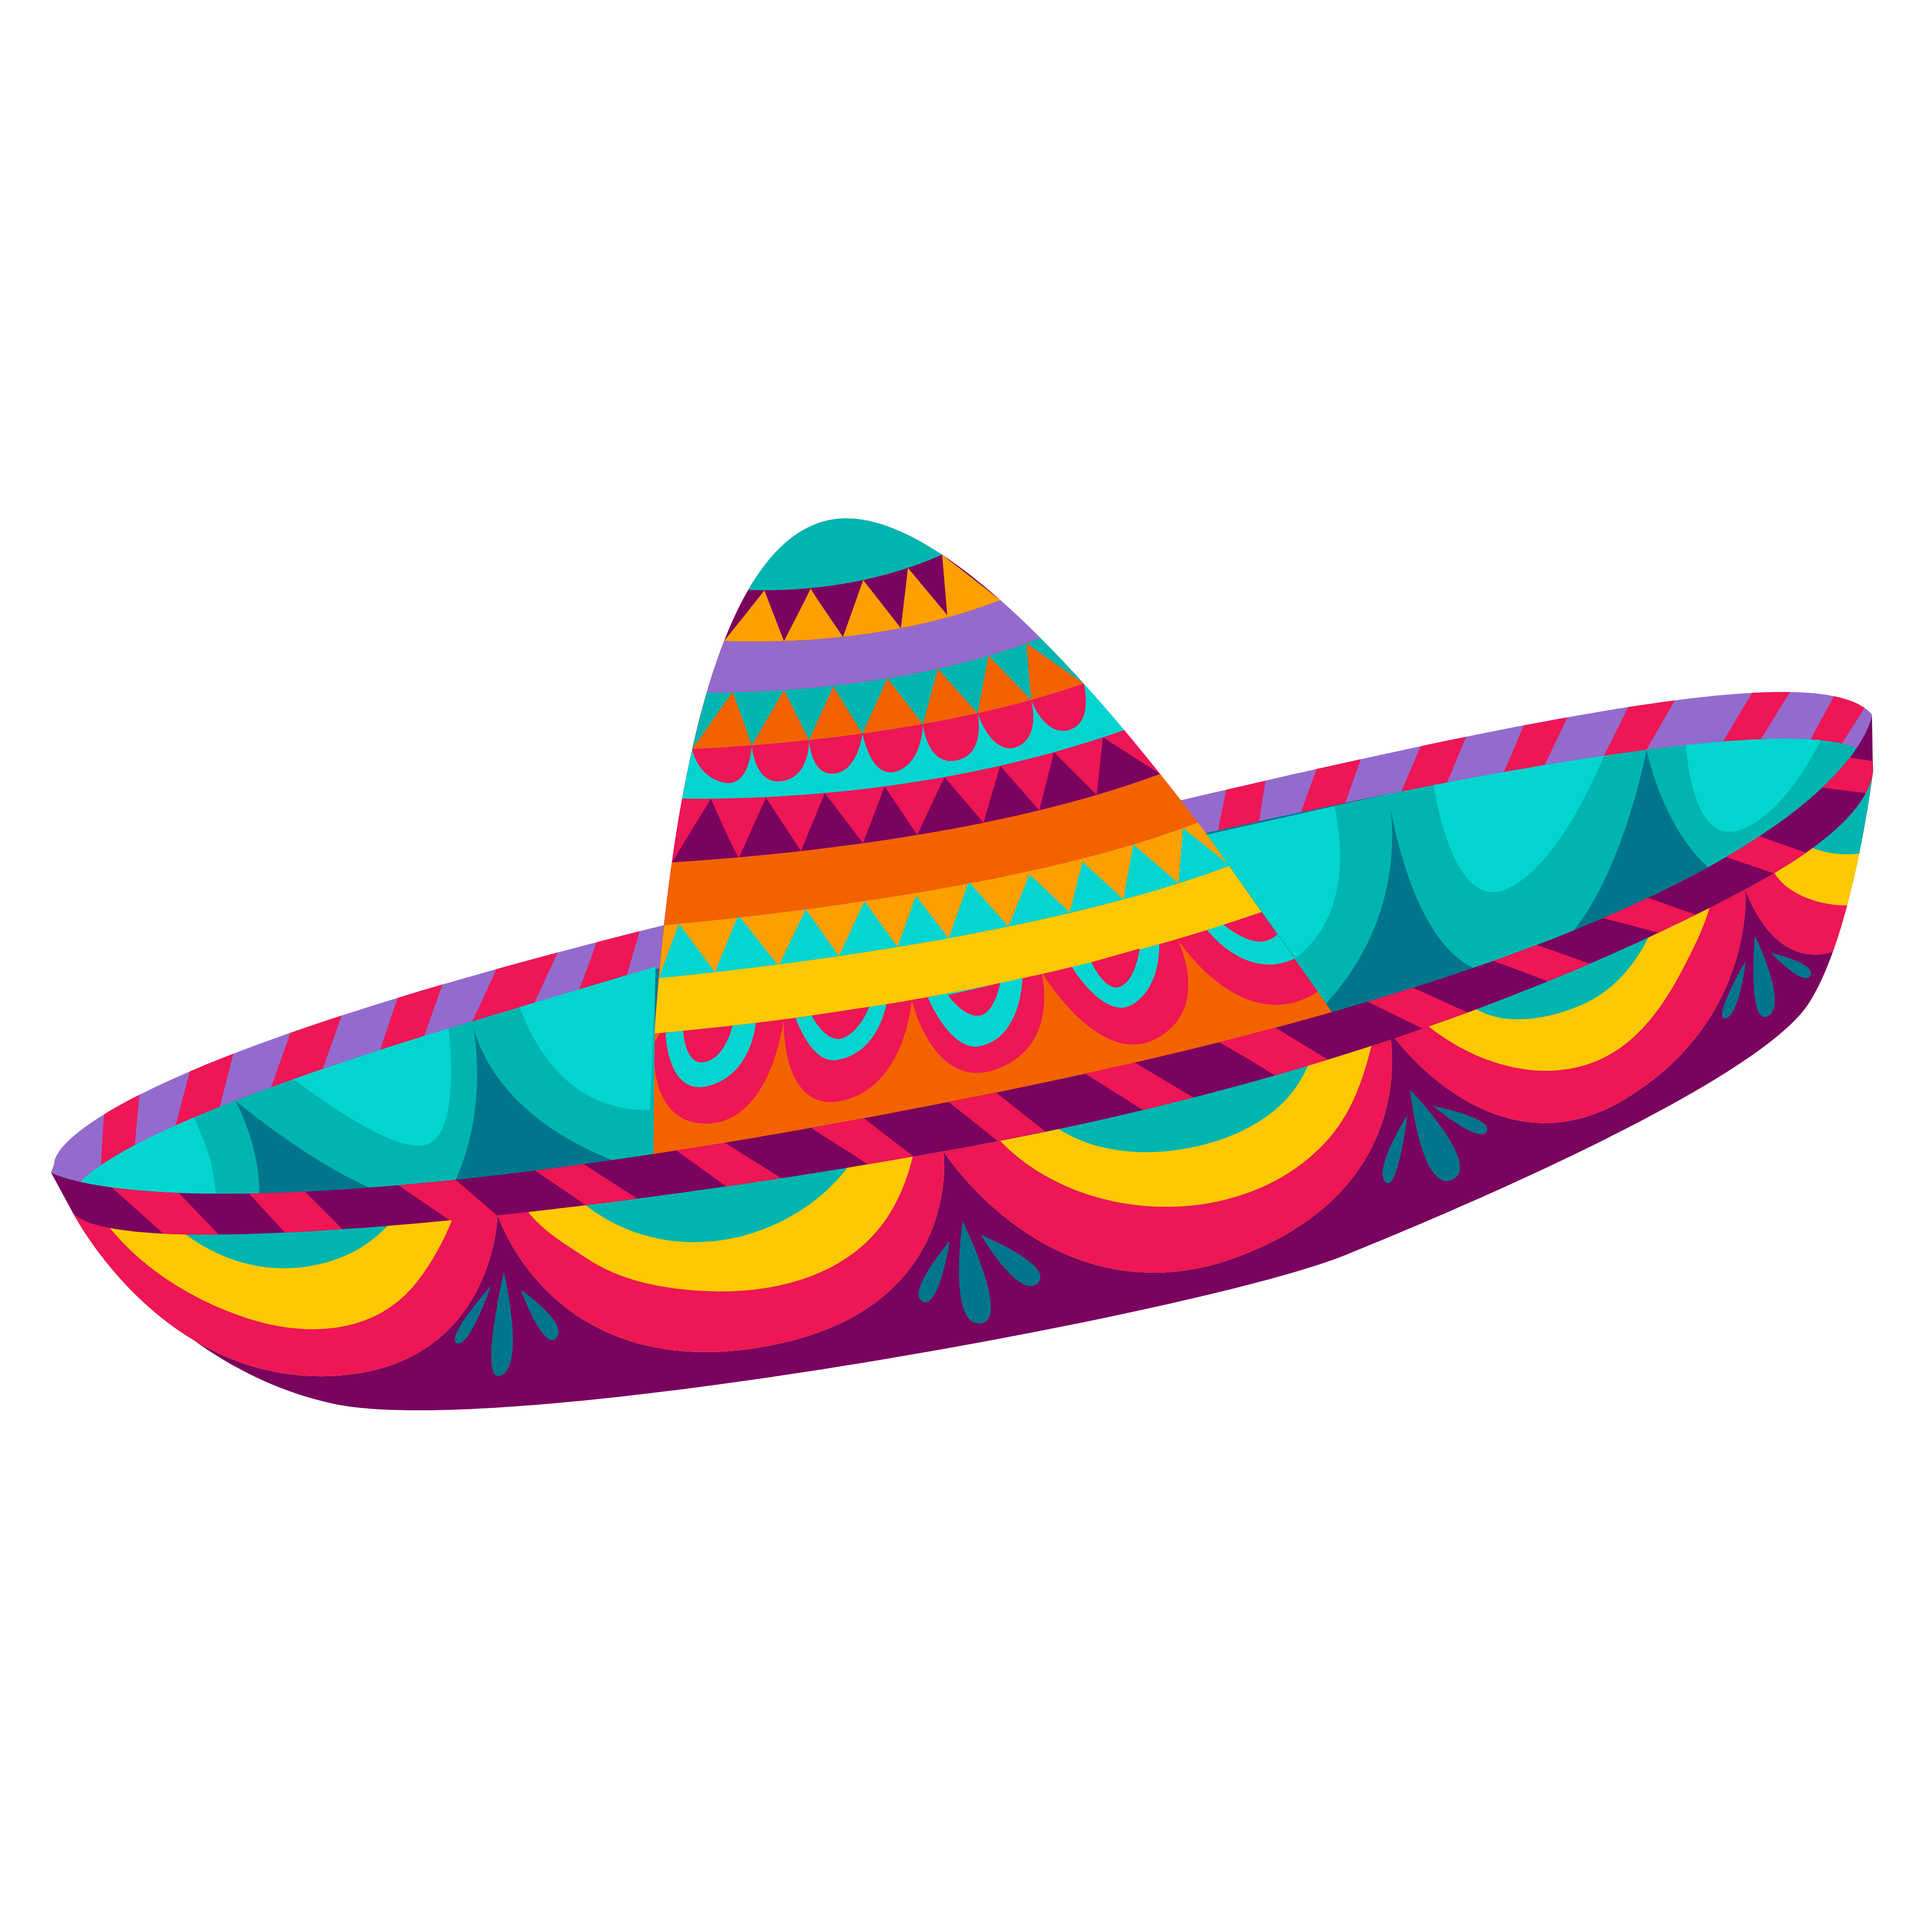
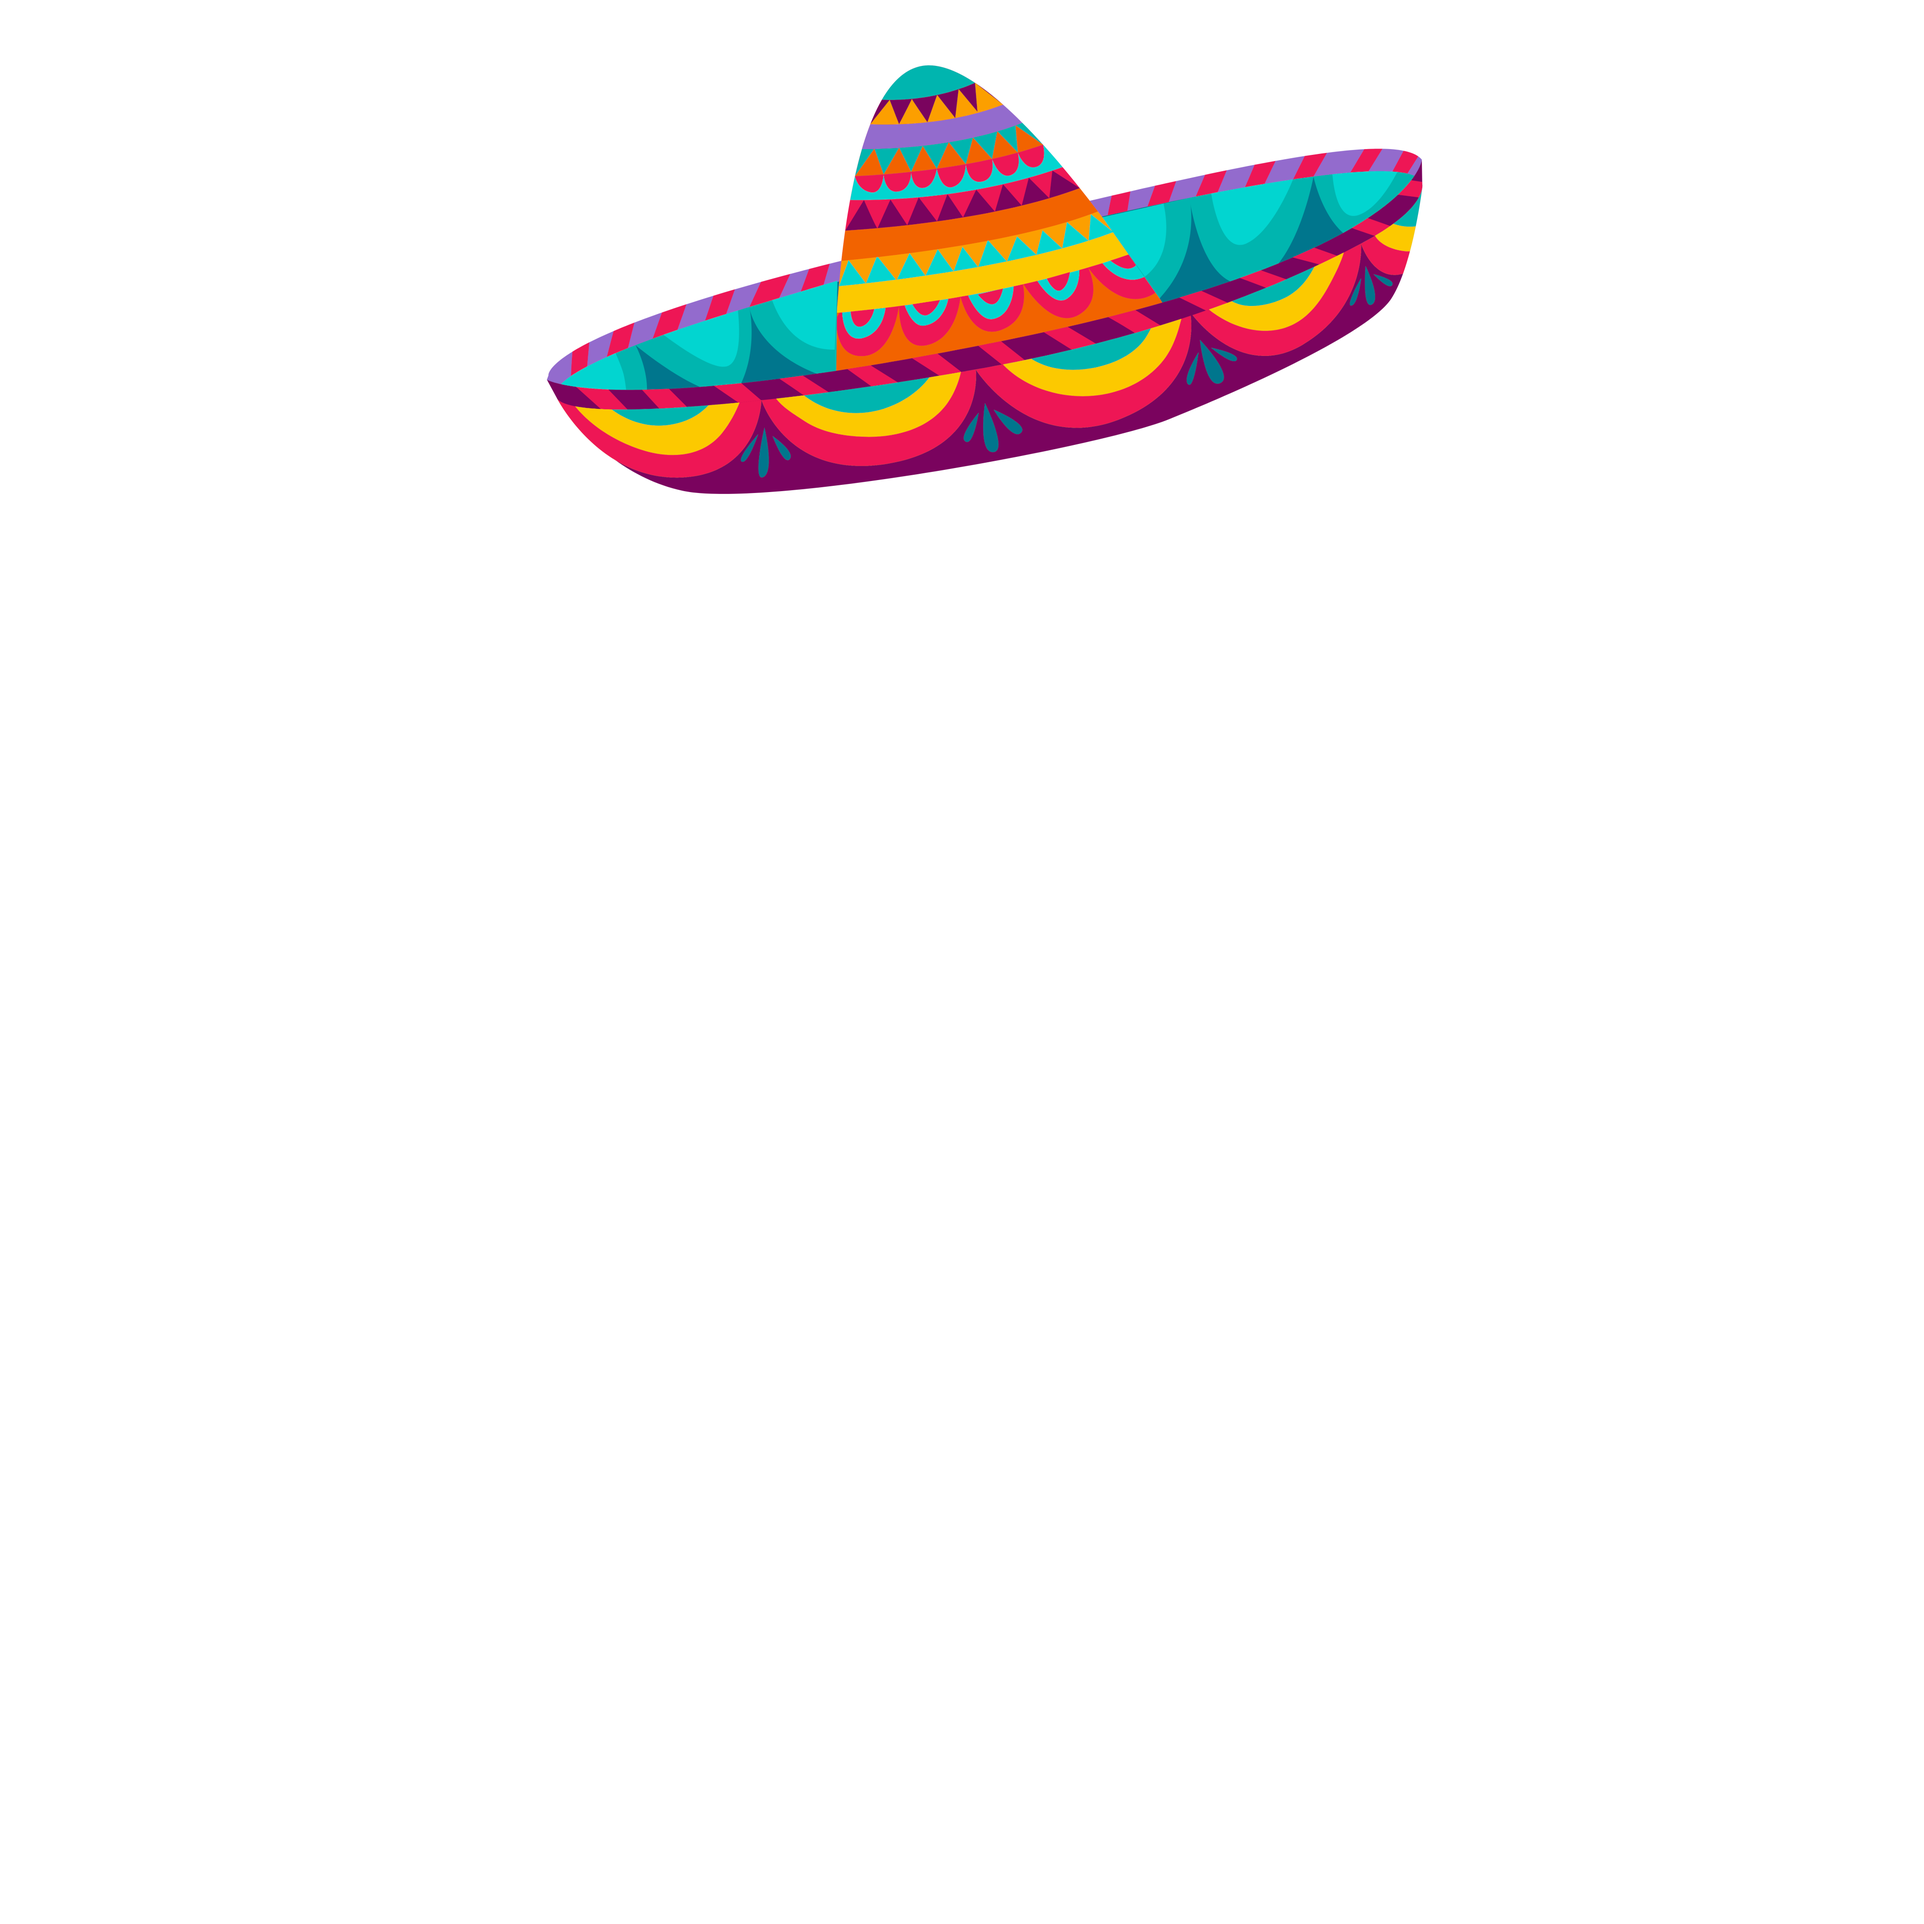
update superposable to better fit camera angle; superposable preview zoomed; add 2 more superposable;

Changed region(s): [[0.0312, 0.0312, 1.0, 0.75]]

diff --git a/public/js/main/studio.js b/public/js/main/studio.js
@@ -29,32 +29,85 @@ document.addEventListener('DOMContentLoaded', function() {
 	  }
 	}
   
+	function getNonTransparentBoundingBox(image) {
+		const canvas = document.createElement('canvas');
+		const context = canvas.getContext('2d');
+		canvas.width = image.width;
+		canvas.height = image.height;
+		context.drawImage(image, 0, 0);
+	
+		const imageData = context.getImageData(0, 0, canvas.width, canvas.height);
+		const pixels = imageData.data;
+		
+		let minX = canvas.width, minY = canvas.height, maxX = 0, maxY = 0;
+		
+		for (let y = 0; y < canvas.height; y++) {
+			for (let x = 0; x < canvas.width; x++) {
+				const alpha = pixels[(y * canvas.width + x) * 4 + 3];
+				if (alpha > 0) {
+					if (x < minX) minX = x;
+					if (y < minY) minY = y;
+					if (x > maxX) maxX = x;
+					if (y > maxY) maxY = y;
+				}
+			}
+		}
+		
+		return { minX, minY, maxX, maxY };
+	}
+	
+	function createThumbnail(image, boundingBox, thumbnailWidth, thumbnailHeight) {
+		const { minX, minY, maxX, maxY } = boundingBox;
+		const cropWidth = maxX - minX;
+		const cropHeight = maxY - minY;
+		
+		const canvas = document.createElement('canvas');
+		canvas.width = thumbnailWidth;
+		canvas.height = thumbnailHeight;
+		const context = canvas.getContext('2d');
+		
+		context.drawImage(
+			image,
+			minX, minY, cropWidth, cropHeight,
+			0, 0, thumbnailWidth, thumbnailHeight
+		);
+		
+		return canvas.toDataURL('image/png');
+	}
+	
 	function loadSuperposableImages() {
-	  return fetch('/images/superposable')
-		.then(response => response.json())
-		.then(data => {
-		  if (data.success) {
-			data.images.forEach(src => {
-			  const img = document.createElement('img');
-			  img.src = src;
-			  img.classList.add('superposable-image');
-			  img.addEventListener('click', () => {
-				selectedSuperposableImage = src;
-				document.querySelectorAll('.superposable-image').forEach(image => {
-				  image.classList.remove('selected');
-				});
-				img.classList.add('selected');
-				overlaySuperposableImage(src);
-			  });
-			  superposableImagesContainer.appendChild(img);
+		return fetch('/images/superposable')
+			.then(response => response.json())
+			.then(data => {
+				if (data.success) {
+					data.images.forEach(src => {
+						const img = new Image();
+						img.src = src;
+						img.onload = () => {
+							const boundingBox = getNonTransparentBoundingBox(img);
+							const thumbnailDataUrl = createThumbnail(img, boundingBox, 100, 100);
+							
+							const thumbnailElement = document.createElement('img');
+							thumbnailElement.src = thumbnailDataUrl;
+							thumbnailElement.classList.add('superposable-image');
+							thumbnailElement.addEventListener('click', () => {
+								selectedSuperposableImage = src;
+								document.querySelectorAll('.superposable-image').forEach(image => {
+									image.classList.remove('selected');
+								});
+								thumbnailElement.classList.add('selected');
+								overlaySuperposableImage(src);
+							});
+							superposableImagesContainer.appendChild(thumbnailElement);
+						};
+					});
+				} else {
+					console.error('Error fetching superposable images:', data.error);
+				}
+			})
+			.catch(error => {
+				console.error('Error:', error);
 			});
-		  } else {
-			console.error('Error fetching superposable images:', data.error);
-		  }
-		})
-		.catch(error => {
-		  console.error('Error:', error);
-		});
 	}
   
   function overlaySuperposableImage(src) {
@@ -68,8 +121,39 @@ document.addEventListener('DOMContentLoaded', function() {
     const videoWrapper = document.querySelector('.video-wrapper');
     videoWrapper.appendChild(overlay);
   }
-  
-  
+	
+	function addThumbnail(imageUrl) {
+		const image = new Image();
+		image.src = imageUrl;
+		
+		image.onload = () => {
+			const boundingBox = getNonTransparentBoundingBox(image);
+			const thumbnailDataUrl = createThumbnail(image, boundingBox, 100, 100);
+			
+			const thumbnailContainer = document.createElement('div');
+			thumbnailContainer.classList.add('thumbnail-container');
+			
+			const img = document.createElement('img');
+			img.src = thumbnailDataUrl;
+			img.classList.add('thumbnail-image');
+			
+			const deleteOverlay = document.createElement('div');
+			deleteOverlay.classList.add('delete-overlay');
+			deleteOverlay.innerHTML = '<span style="color: white;">&#10006;</span>';
+			
+			deleteOverlay.addEventListener('click', (event) => {
+				event.stopPropagation();
+				if (confirm('Do you want to delete this image?')) {
+					deleteImage(image.id, thumbnailContainer);
+				}
+			});
+			
+			thumbnailContainer.appendChild(img);
+			thumbnailContainer.appendChild(deleteOverlay);
+			thumbnailsContainer.insertBefore(thumbnailContainer, thumbnailsContainer.firstChild);
+		};
+	}
+
   function loadThumbnails(userSpecific = false) {
     const url = userSpecific ? '/images?user=true&limit=100' : '/images?limit=100';
     return fetch(url)
